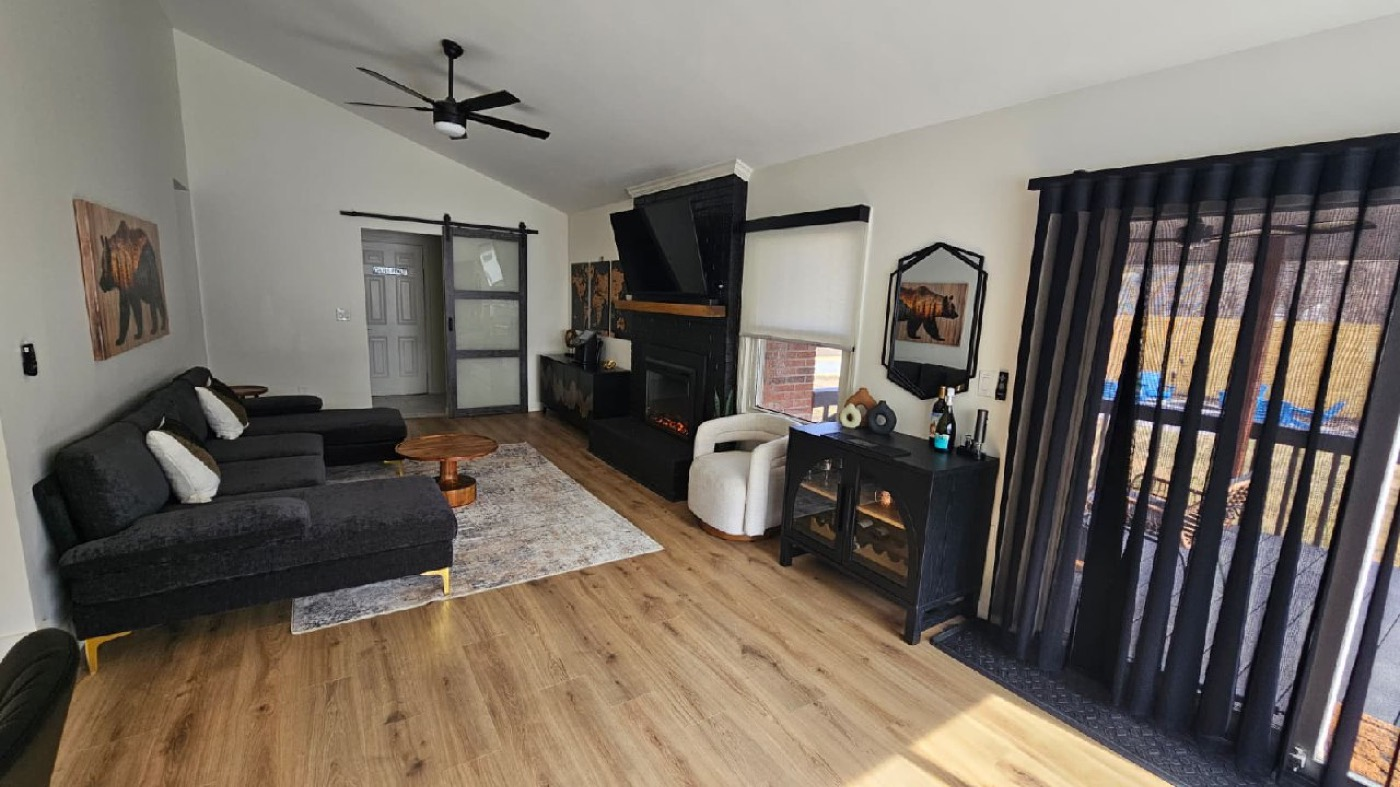
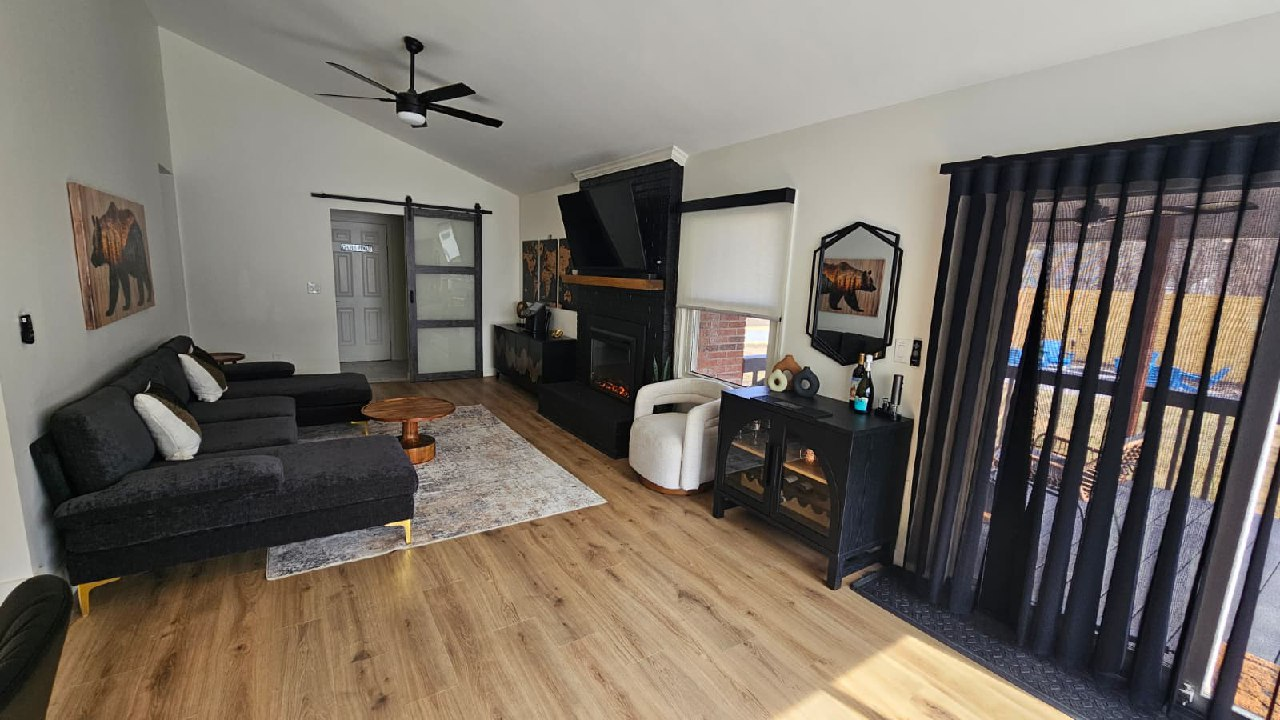
Gallery: Add 10 new photos - Family Room smart drapes, Gatsby desk angle, hall bath vanity x2, arcade foosball/pool/shuffleboard puck/pool back, bocce+cornhole court, backyard hammock+playset

diff --git a/gallery.html b/gallery.html
@@ -203,6 +203,10 @@
           <picture><source srcset="Images/Optimized/furnished/Living Room - New5 Kitchen View.webp" type="image/webp"><img src="Images/Optimized/furnished/Living Room - New5 Kitchen View.jpg" alt="Kitchen peninsula and island from family room" loading="lazy"></picture>
           <div class="gallery-item-overlay"><span>Kitchen &amp; Island</span></div>
         </div>
+        <div class="gallery-item gal-item" tabindex="0" role="button" aria-label="View large: Family room smart drapes">
+          <picture><source srcset="Images/Optimized/furnished/Family Room - Smart Drapes.webp" type="image/webp"><img src="Images/Optimized/furnished/Family Room - Smart Drapes.jpg" alt="Family room with smart motorized drapes, electric fireplace, and backyard access" loading="lazy"></picture>
+          <div class="gallery-item-overlay"><span>Family Room — Smart Drapes</span></div>
+        </div>
         <div class="gallery-item gal-item" tabindex="0" role="button" aria-label="View large: Karaoke">
           <picture><source srcset="Images/Optimized/furnished/Karaoke.webp" type="image/webp"><img src="Images/Optimized/furnished/Karaoke.jpg" alt="Karaoke machine in family room" loading="lazy"></picture>
           <div class="gallery-item-overlay"><span>Karaoke</span></div>
@@ -230,6 +234,10 @@
           <picture><source srcset="Images/Optimized/furnished/Gatsby Room - Bed1.webp" type="image/webp"><img src="Images/Optimized/furnished/Gatsby Room - Bed1.jpg" alt="The Gatsby Room queen bedroom with designer art" loading="lazy"></picture>
           <div class="gallery-item-overlay"><span>The Gatsby Room — Queen</span></div>
         </div>
+        <div class="gallery-item gal-item" tabindex="0" role="button" aria-label="View large: The Gatsby Room desk angle">
+          <picture><source srcset="Images/Optimized/furnished/Gatsby Room - Desk Angle.webp" type="image/webp"><img src="Images/Optimized/furnished/Gatsby Room - Desk Angle.jpg" alt="The Gatsby Room with vanity desk, gold sconces, and blue abstract art" loading="lazy"></picture>
+          <div class="gallery-item-overlay"><span>The Gatsby Room — Desk &amp; Vanity</span></div>
+        </div>
 
         <!-- Bathrooms -->
         <p class="gallery-section-label">Bathrooms</p>
@@ -237,9 +245,13 @@
           <picture><source srcset="Images/Optimized/furnished/Royal Suite - Ensuite Bath.webp" type="image/webp"><img src="Images/Optimized/furnished/Royal Suite - Ensuite Bath.jpg" alt="Royal Suite private ensuite with tiled walk-in shower" loading="lazy"></picture>
           <div class="gallery-item-overlay"><span>Royal Suite — Private Ensuite</span></div>
         </div>
-        <div class="gallery-item gal-item" tabindex="0" role="button" aria-label="View large: Hall bath shower">
-          <picture><source srcset="Images/Optimized/furnished/Hall Bath - Shower View.webp" type="image/webp"><img src="Images/Optimized/furnished/Hall Bath - Shower View.jpg" alt="Shared hall bathroom with white subway tile walk-in shower and black fixtures" loading="lazy"></picture>
-          <div class="gallery-item-overlay"><span>Hall Bath — Shower</span></div>
+        <div class="gallery-item gal-item" tabindex="0" role="button" aria-label="View large: Hall bath vanity close">
+          <picture><source srcset="Images/Optimized/furnished/Hall Bath - Vanity Close.webp" type="image/webp"><img src="Images/Optimized/furnished/Hall Bath - Vanity Close.jpg" alt="Hall bathroom vanity with gold faucet, navy mirror, and designer accessories" loading="lazy"></picture>
+          <div class="gallery-item-overlay"><span>Hall Bath — Vanity</span></div>
+        </div>
+        <div class="gallery-item gal-item" tabindex="0" role="button" aria-label="View large: Hall bath full view">
+          <picture><source srcset="Images/Optimized/furnished/Hall Bath - Vanity Full.webp" type="image/webp"><img src="Images/Optimized/furnished/Hall Bath - Vanity Full.jpg" alt="Hall bathroom full view with vanity, tub, and shower" loading="lazy"></picture>
+          <div class="gallery-item-overlay"><span>Hall Bath — Full View</span></div>
         </div>
         <div class="gallery-item gal-item" tabindex="0" role="button" aria-label="View large: Half bath powder room">
           <picture><source srcset="Images/Optimized/furnished/Half Bath - Powder Room.webp" type="image/webp"><img src="Images/Optimized/furnished/Half Bath - Powder Room.jpg" alt="Downstairs half bath powder room with gold fixtures and bear artwork reflected in mirror" loading="lazy"></picture>
@@ -299,6 +311,18 @@
           <picture><source srcset="Images/Optimized/furnished/Mojos Arcade - Full Room.webp" type="image/webp"><img src="Images/Optimized/furnished/Mojos Arcade - Full Room.jpg" alt="Mojo's Arcade full room with foosball, pool table, and arcade cabinets" loading="lazy"></picture>
           <div class="gallery-item-overlay"><span>Full Room</span></div>
         </div>
+        <div class="gallery-item gal-item" tabindex="0" role="button" aria-label="View large: Arcade foosball and pool view">
+          <picture><source srcset="Images/Optimized/furnished/Mojos Arcade - Foosball Pool View.webp" type="image/webp"><img src="Images/Optimized/furnished/Mojos Arcade - Foosball Pool View.jpg" alt="Foosball table and covered pool table with Mojo's Arcade sign" loading="lazy"></picture>
+          <div class="gallery-item-overlay"><span>Foosball &amp; Pool Table</span></div>
+        </div>
+        <div class="gallery-item gal-item" tabindex="0" role="button" aria-label="View large: Shuffleboard puck close-up">
+          <picture><source srcset="Images/Optimized/furnished/Shuffleboard - Puck Close.webp" type="image/webp"><img src="Images/Optimized/furnished/Shuffleboard - Puck Close.jpg" alt="Shuffleboard table close-up with puck and sand" loading="lazy"></picture>
+          <div class="gallery-item-overlay"><span>Shuffleboard — Puck View</span></div>
+        </div>
+        <div class="gallery-item gal-item" tabindex="0" role="button" aria-label="View large: Pool table back view">
+          <picture><source srcset="Images/Optimized/furnished/Mojos Arcade - Pool Table Back.webp" type="image/webp"><img src="Images/Optimized/furnished/Mojos Arcade - Pool Table Back.jpg" alt="Pool table from behind with full arcade room view" loading="lazy"></picture>
+          <div class="gallery-item-overlay"><span>Pool Table</span></div>
+        </div>
 
         <!-- Hot Tub -->
         <p class="gallery-section-label">Hot Tub</p>
@@ -337,9 +361,13 @@
           <picture><source srcset="Images/Optimized/furnished/Putting Green - Night.webp" type="image/webp"><img src="Images/Optimized/furnished/Putting Green - Night.jpg" alt="Putting green lit up at night" loading="lazy"></picture>
           <div class="gallery-item-overlay"><span>Putting Green — Night</span></div>
         </div>
-        <div class="gallery-item gal-item" tabindex="0" role="button" aria-label="View large: Cornhole and bocce court">
-          <picture><source srcset="Images/Optimized/furnished/Backyard Cornhole Bocce.webp" type="image/webp"><img src="Images/Optimized/furnished/Backyard Cornhole Bocce.jpg" alt="Bocce gravel court with blue cornhole boards at Mojo Manor" loading="lazy"></picture>
-          <div class="gallery-item-overlay"><span>Cornhole &amp; Bocce</span></div>
+        <div class="gallery-item gal-item" tabindex="0" role="button" aria-label="View large: Bocce and cornhole court">
+          <picture><source srcset="Images/Optimized/furnished/Outdoor - Bocce Cornhole Court.webp" type="image/webp"><img src="Images/Optimized/furnished/Outdoor - Bocce Cornhole Court.jpg" alt="Bocce and cornhole court with disc golf basket in fenced backyard" loading="lazy"></picture>
+          <div class="gallery-item-overlay"><span>Bocce &amp; Cornhole Court</span></div>
+        </div>
+        <div class="gallery-item gal-item" tabindex="0" role="button" aria-label="View large: Backyard hammock and playset">
+          <picture><source srcset="Images/Optimized/furnished/Backyard - Hammock Playset Wide.webp" type="image/webp"><img src="Images/Optimized/furnished/Backyard - Hammock Playset Wide.jpg" alt="Backyard with hammock, kids playset, fire pit, and ladder golf" loading="lazy"></picture>
+          <div class="gallery-item-overlay"><span>Backyard — Hammock &amp; Playset</span></div>
         </div>
         <div class="gallery-item gal-item" tabindex="0" role="button" aria-label="View large: Kids playset">
           <picture><source srcset="Images/Optimized/furnished/Playset.webp" type="image/webp"><img src="Images/Optimized/furnished/Playset.jpg" alt="Kids playset with swings and multi-level tower in fenced backyard" loading="lazy"></picture>
